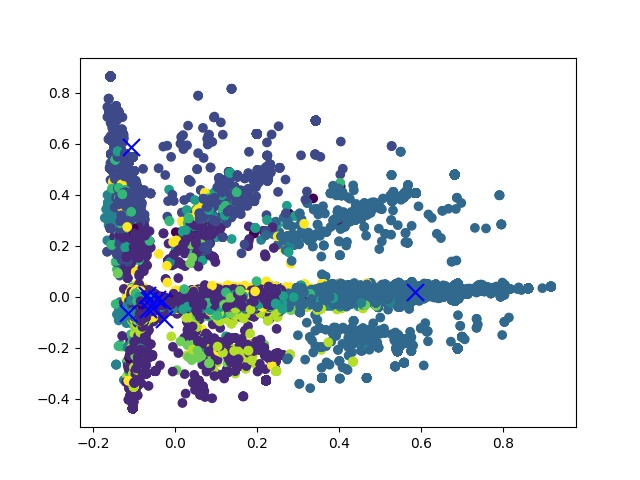
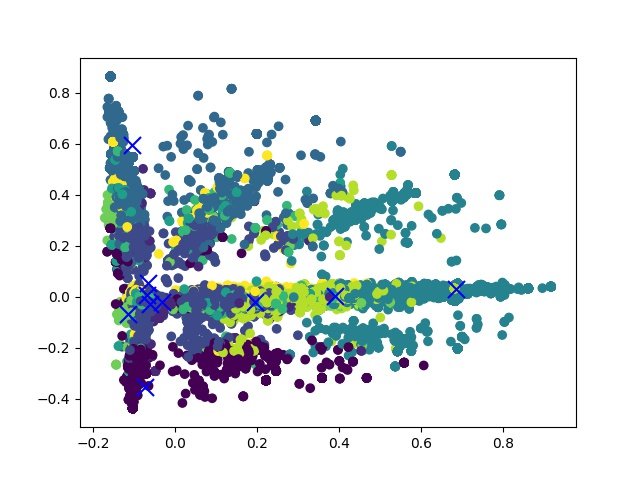
Update colors for dbscan visualization
Измнено:
Функция для формирования цветов визуализации

diff --git a/processing-new.py b/processing-new.py
@@ -52,7 +52,7 @@ def dbscan_visualization(tfidf_matrix, db):
     core_samples_mask[db.core_sample_indices_] = True
 
     unique_labels = set(db.labels_)
-    colors = [plt.cm.Spectral(each) for each in np.linspace(0, 1, len(unique_labels))]
+    colors = plt.cm.get_cmap('Spectral')(np.linspace(0, 1, len(unique_labels)))
 
     for k, col in zip(unique_labels, colors):
         if k == -1:
